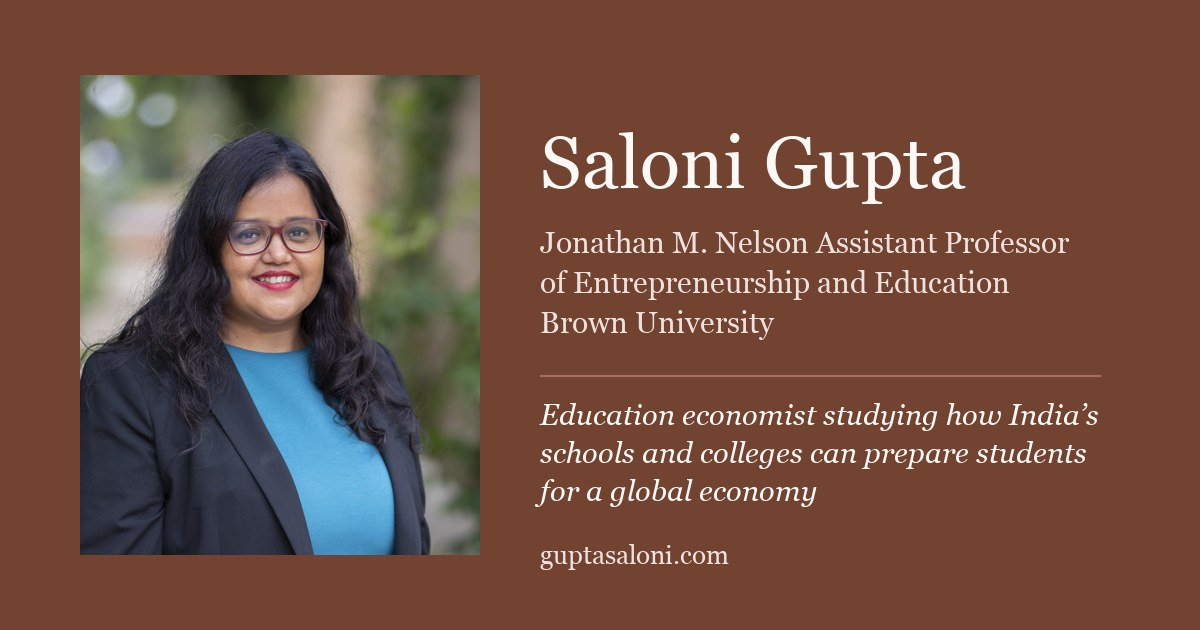
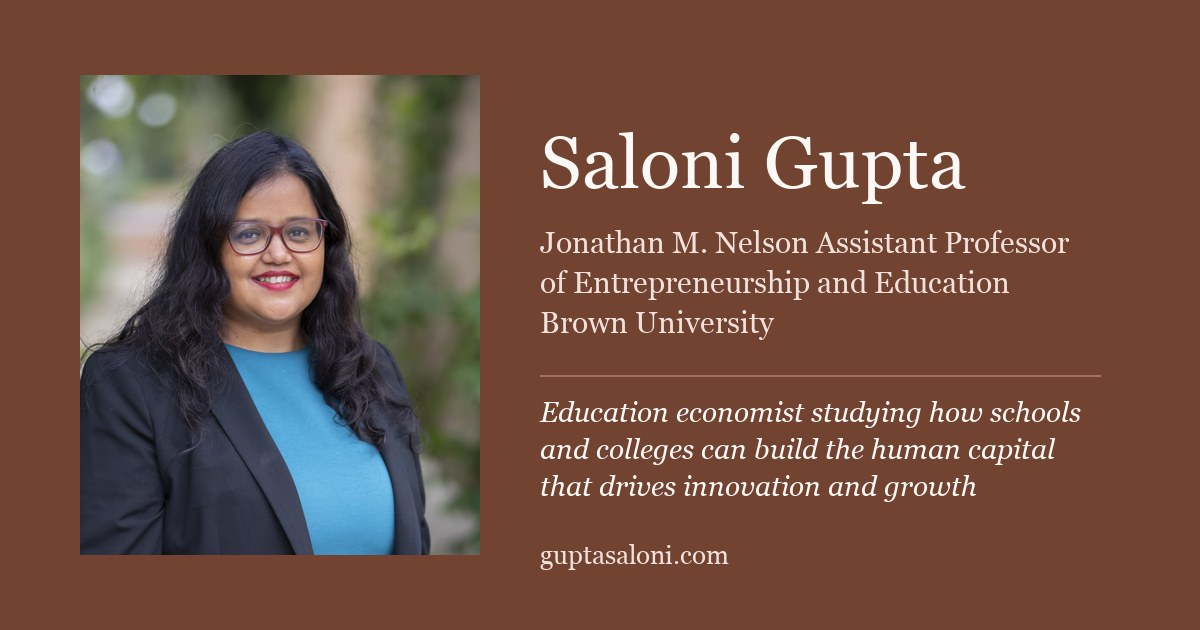
Headline without India; bio option B

Changed region(s): [[0.4317, 0.6333, 0.925, 0.8143]]

diff --git a/index.html b/index.html
@@ -60,9 +60,9 @@ document.documentElement.classList.add("js");
       <img class="headshot" src="assets/headshot.jpg" alt="Portrait of Saloni Gupta" width="260" height="312">
       <div class="hero-text">
         <p class="eyebrow">Welcome</p>
-        <p class="tagline">Education economist studying how India’s schools and colleges can prepare students for a global economy.</p>
+        <p class="tagline">Education economist studying how schools and colleges can build the human capital that drives innovation and growth.</p>
         <div class="bio">
-      <p>I am the Jonathan M. Nelson Assistant Professor of Entrepreneurship and Education at <a class="quiet" href="https://education.brown.edu/">Brown University</a>. Some of my current projects examine how college students learn to use generative AI to become experts, whether schools can teach innovation, how personalized adaptive learning performs at scale, and whether diversity initiatives help high-achieving women engineers land better jobs.</p>
+      <p>I am the Jonathan M. Nelson Assistant Professor of Entrepreneurship and Education at <a class="quiet" href="https://education.brown.edu/">Brown University</a>. I study which investments in children and young adults, in school, in college, and at the start of their careers, raise the skills an innovative economy needs. Current projects examine whether schools can teach innovation, how personalized adaptive learning performs at scale, how college students learn to use generative AI to become experts, and whether diversity initiatives help high-achieving women engineers land better jobs.</p>
       <p>I received my Ph.D. in <a class="quiet" href="https://www.tc.columbia.edu/education-policy-and-social-analysis/economics-and-education/">Economics and Education</a> from Teachers College, Columbia University (2024) and was a postdoctoral fellow at the <a class="quiet" href="https://kingcenter.stanford.edu/people/saloni-gupta">Stanford King Center on Global Development</a> (2025).</p>
         </div>
         <p class="buttons">
